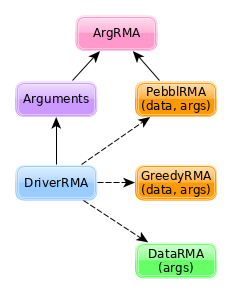
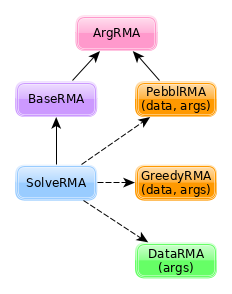
updated README and diagram; changed the DriverRMA to SolveRMA

Changed region(s): [[0.0905, 0.3061, 0.3922, 0.3673], [0.0905, 0.5816, 0.3922, 0.6429]]

diff --git a/src/driver.cpp b/src/driver.cpp
@@ -6,7 +6,7 @@
 
 #include "argRMA.h"
 #include "dataRMA.h"
-#include "driverRMA.h"
+#include "solveRMA.h"
 using namespace arg;
 using namespace data;
 using namespace rma;
@@ -14,14 +14,9 @@ using namespace rma;
 
 int main(int argc, char** argv) {
 
-  DriverRMA driverRMA;
-  driverRMA.setupDriverRMA(argc, argv);
-  driverRMA.solveRMA();
-
-  // Using the following code, I get an error
-  // DriverRMA* driverRMA = new DriverRMA();
-  // driverRMA->setupDriverRMA(argc, argv);
-  // driverRMA->solveRMA();
+  SolveRMA solveRMA;
+  solveRMA.setupSolveRMA(argc, argv);
+  solveRMA.solveRMA();
 
   return 0;
 

diff --git a/src/greedyRMA.cpp b/src/greedyRMA.cpp
@@ -386,7 +386,8 @@ void GreedyRMA::setObjVec(const unsigned int &j) {
     obs = vecCoveredObs[i];
     v = data->intTrainData[obs].X[j];
     vecWeight[v] += data->intTrainData[obs].w;
-  }
+  }//#include <acro_config.h>
+
 
   if (args->debug >= 10)
     ucout << "vecWeight: " << vecWeight;

diff --git a/README.md b/README.md
@@ -83,24 +83,29 @@ Please read the user guide about how to use parameters for the RMA solver.
 
 <img src="https://github.com/aik7/RMA/blob/devel/figures/RMA_class_org.png" width="300">
 
+* A solid arrow indicates an inheritance relationship
+* A dashed arrow indicates a composition relationship
+
 ## Source files at src directory
 ```
 ├── argRMA.cpp       : a file contains RMA argument class
 ├── argRMA.h
-├── baseRMA.cpp      : a file contains a base class for a RMA driver class
+├── baseRMA.cpp      : a file contains a base class for a SolveRMA class
 ├── baseRMA.h
 ├── dataRMA.cpp      : a file contains RMA data classes
 ├── dataRMA.h        
 ├── driver.cpp       : a driver file
-├── driverRMA.cpp    : a file contains RMA driver class
-├── driverRMA.h      
 ├── greedyRMA.cpp    : a file contains greedy RMA class
 ├── greedyRMA.h      
 ├── parRMA.cpp       : a file contains parallel RMA class
 ├── parRMA.h   
 ├── serRMA.cpp       : a file contains serial RMA class
 ├── serRMA.h
-└── Time.h           : a header file for time
+├── Time.h           : a header file for time
+├── solveRMA.cpp     : a file contains SolveRMA class
+├── solveRMA.h      
+├── utilRMA.cpp      : a file contains RMA utility functions
+└── utilRMA.h        
 ```
 
 ## Reference
